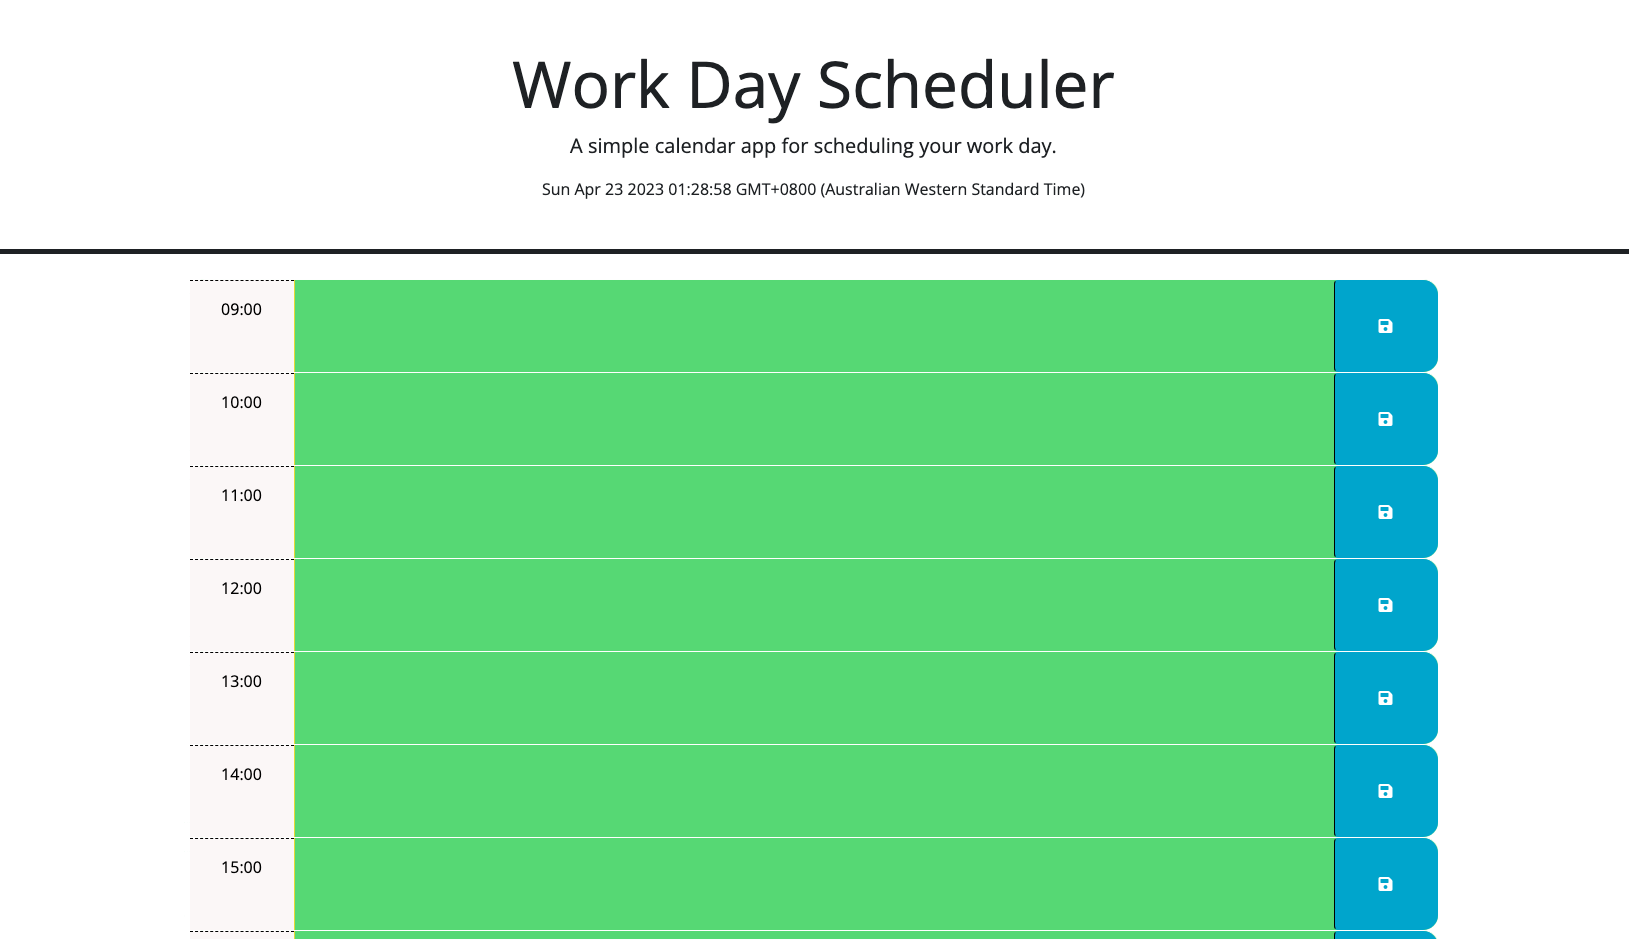
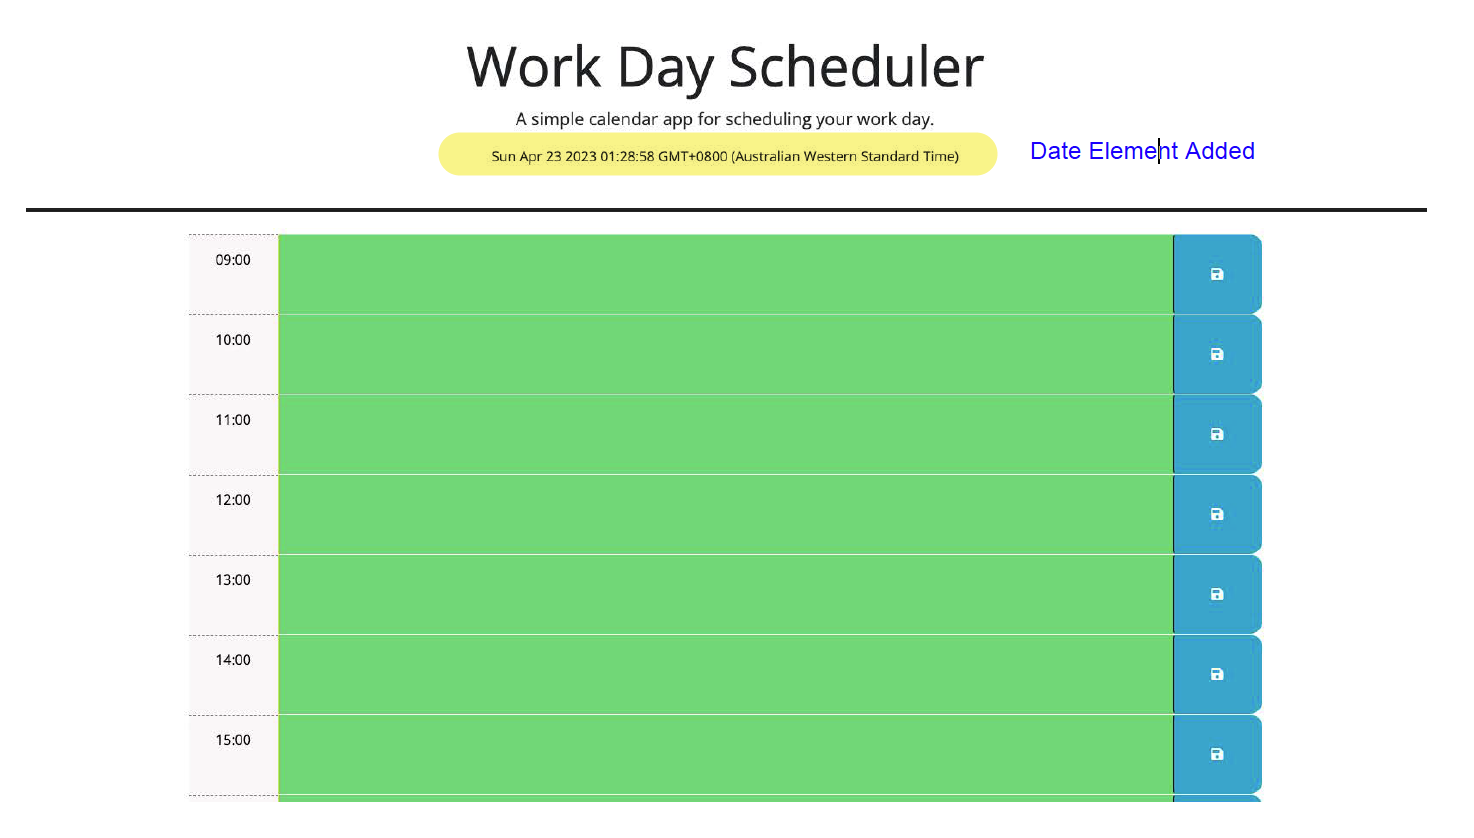
3rdPartyAPI-js_md-devScheduleInput

diff --git a/script.js b/script.js
@@ -51,12 +51,40 @@ function newTime() {
         $(this).toggleClass('future', blockHour > nowHour);
       });
     }
-  
 
+    // #Creating the scheduleInput function
+    // scheduleInput function will save the text in the block hour text area when the corresponnding save button is clicked
+    function scheduleInput() {
+      // #When the save button at the hour block is clicked, run the scheduleInput function
+      $('.saveBtn').on('click', function() {
+        // #Usng attr() to get the attribute value of that hour block (id) located as the parent in the HTML DOM tree
+        const key = $(this).parent().attr('id');
+        // #Using the val() method to return or set the attribute value to the text entered defined as the sibling
+        const value = $(this).siblings('.description').val();
+        // #Using the setItem method to save into localStorage with the corresponding key name and value
+        localStorage.setItem(key, value);
+      });
+    }
+
+    // This will get the user input from the localStorage and set textarea values for each time block.
+    
+    // #For each time block, the value at the local storage is set as the textarea values
+    $('.time-block').each(function() {
+      // #Declaring key
+      const key = $(this).attr('id');
+      // #Declaring value
+      const value = localStorage.getItem(key);
+      // #Display local storage value in the corresponding textarea
+      $(this).children('.description').val(value);  
+
+    });
 
     // Call hourColour function
     hourColour();
-             
+       // Call scheduleInput function
+    scheduleInput();
+       // Call updateColour function                
+    // updateColour();             
 
     // Updating newTime function every second
     setInterval(newTime, 1000); 

diff --git a/README.md b/README.md
@@ -52,7 +52,9 @@ Used jQuery to display the current date, time and GMT time zone of the local mac
 
 
 ## scheduleInput Function:
+This function allows the ability to store the input at eaxch textarea of the blockHour to be locally stored and recalled corresponding to their respective blockHour
 
+![Displayiing the appointment and retaining appointment data in local storage](./Assets/03scheduleInput.png)
 
 
 
